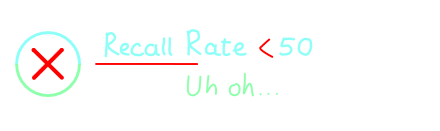
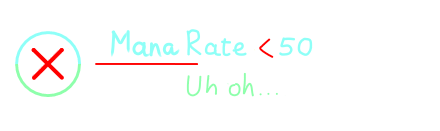
4.2.5 overhaul

Changed region(s): [[0.2364, 0.2137, 0.4136, 0.4275]]

diff --git a/README.md b/README.md
@@ -1,11 +1,13 @@
-# Project: osu! Gacha Club (Repository: osu-Mg-reload)
-1 of 2 core projects of osu! Gacha Club, with the purpose to bring Gacha Club to osu! game. Transferred and/or revamped from osu-mg-skin
+# Project: osu! Gacha Club | Sub-project: osu! Mg - Season 01  | Branch: v.4.1.x
+
+![Project Banner Season 1](https://github.com/user-attachments/assets/a769a7f7-a899-40cf-9699-467ea15445b5)
+
+
+1 of 2 core projects of osu! Gacha Club, with the purpose to bring Gacha Club to osu! game. Transferred and/or revamped from [osu-mg-skin](https://github.com/greenmg2003/osu-Mg-skin)
 
 You may want to jump to [skin preview](#-media-latest-version-)
 
-Please consider taking it for free, credits me if you want to reuse some of my Gacha Club elements ^^
-
-Status: This branch 4.2.3 is done, and **there will be** 1 last major update to close Season 1 - Coming soon at 5.1.0. Thank you for all your support!
+Current status: Project is realeasing the translation for Vietnamese and Japanese support! There will be more updates in the future!!
 
 [Stability Status]: As of now, the project is stable. There is [the post exposing the hatred towards this project](https://github.com/greenmg2003/osu-mg-reload/blob/main/30-01-2025-serious-report.md).
 
@@ -17,7 +19,7 @@ Status: This branch 4.2.3 is done, and **there will be** 1 last major update to 
 
 - Co-leader: **Hikari Richiumu**
 
-- Version: [**4.2.3**](https://github.com/alphamg2003/osu-Mg-reload/releases/tag/v.4.2.3-release) 
+- Version: [**4.2.5**](https://github.com/alphamg2003/osu-Mg-reload/releases/tag/v.4.2.5-release) 
 
 - Copyright issue: Assets that are made from other skins is credited to the owners. Any elements that are made with Gacha Club, if you want to reuse it, please credit me. It's a non-commercial project after all.
 
@@ -27,21 +29,15 @@ Sub-project: [VTuber Alpha Mg](https://github.com/alphamg2003/Alpha_Mg_VTuber)
 
 #                                 ~ Important ~
                                 
-~⚠ The Project (along with big project - osu! Gacha Club) no longer affiliates and no longer supports Gacha Community anymore, starting from 15th May, 2024, until the end of 14th April 2025. That doesn't mean I stopped supporting the game, but please DO NOT refer this as a part of Gacha Community anymore. We simply do it for personal use at the start, and I bring this part of project for public use to everyone who supported us, not for serving and beautify Gacha Community anymore like it used to be.~ (This statement is subjected to be changed later)
+⚠ **The Project (along with big project - osu! Gacha Club) IS NOT a part of Gacha Community.** That does not mean I stopped supporting the game. We simply do it for personal use at the start, and I bring this part of project for public use to everyone who supported us, not for serving and beautify Gacha Community like in the past. [Read here to understand why](https://github.com/greenmg2003/osu-mg-reload/blob/main/project_direction.md). All the hatred that I received that is like "Ew Gacha" or "Gacha is disgusting" will be redirected to community, I do not have time to deal with that. The community does bad thing and they must suffer the consequences themselves, not me.
 
-Update on 24/03/2025 from Mg (me): I might re-consider supporting the community after the below community has done something worse to me, should the community choose to and welcome me and this project back
-
-Update on 14/04/2025 from Mg (me): With the release of Gacha Story coming in 15/04/2025, I'll give the community the second chance to test
-
-⚠ **The Project (along with big project - osu! Gacha Club) also no longer affiliates and no longer supports RGVN, starting from 20th March, 2025. Their defamation behind my back has disgusted me.** Should they continue to consume this project to defame members of the project and caught red-handed, I'll file a lawsuit.
-
-⚠ **We DO NOT welcome member of RGVN (except explicit cases), Gacha players and other players who are woke LGBTQ+ (or should I say, the predators), and Gacha Kids (Gacha Players who are less than 14 years old).** If you are like that, and you wanna call me homophobic and disgusting guy, go on, I don't care. As stated, this project is only for the one who wish to sail on same boat with me and support me.
+⚠ **We DO NOT welcome kids from Gacha Community who are 16 years old and below, or cringe, heat content creators.** As stated, this project is only for the one who wish to sail on same boat with me and support me. 
 
 ✳ For 4.2.x: The skin is only SD-based, HD elements will be reworked once I have plenty of time to do
 
 ✳ Want to contribue? [Great, read this first before contributing!](https://github.com/alphamg2003/osu-Mg-reload/blob/main/CONTRIBUTING.md)
 
-✳ Some issues mentioned in the changelog are from osu-mg-skin, you can go there and check
+✳ There might be some issues mentioned in the changelog that are from [osu-Mg-skin](https://github.com/greenmg2003/osu-Mg-skin), you can go there and check
 
 #                          ~ Mg's team in the skin - List of people ~
 
@@ -133,6 +129,20 @@ Update on 14/04/2025 from Mg (me): With the release of Gacha Story coming in 15/
 # ~ Changelog ~
 
 ## [4.x]
+
+# [4.2.5](https://github.com/alphamg2003/osu-Mg-reload/releases/tag/v.4.2.5-release)
+
+🔄 Overhauled the text in Pause Screen (Continue, Retry, Back, Watch Replay), check #79
+
+🔄 Fixed "Start" text not centralized
+
+🔄 Text update: "Maximum Recall" -> "Max Combo", "Full Recall" -> "Full Mana!!", "Recall Rate" -> "Mana Rate" (Mainly to avoid DMCA'd by Arcaea by the calling system)
+
+\+ Limbus Company!
+
+# [4.2.4](https://github.com/greenmg2003/osu-mg-reload/releases/tag/v.5.0.4-lazer-release)
+
+\+ Lazer support
 
 ### [4.2.3](https://github.com/greenmg2003/osu-mg-reload/releases/tag/v.4.2.3-release)
 
